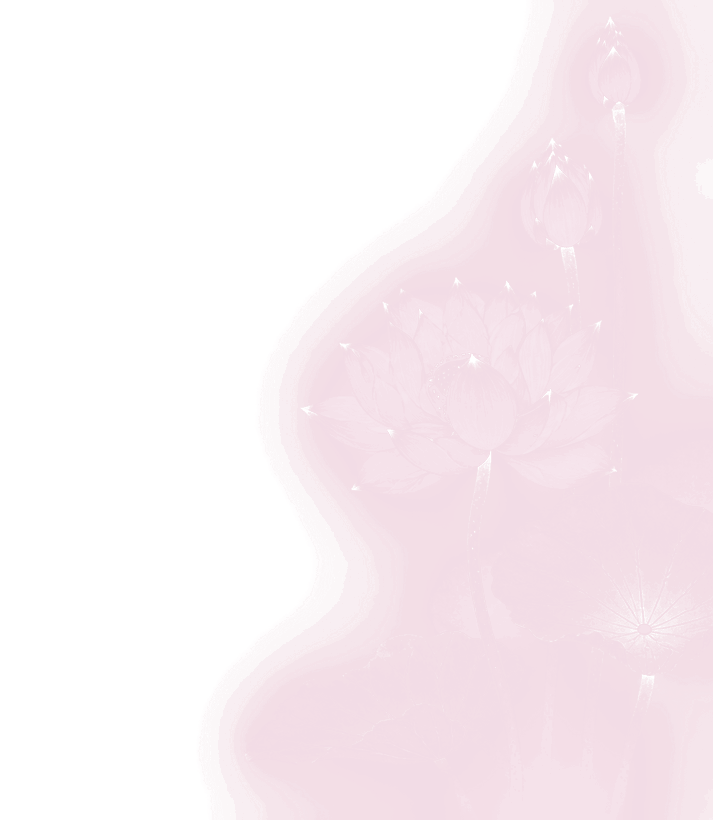
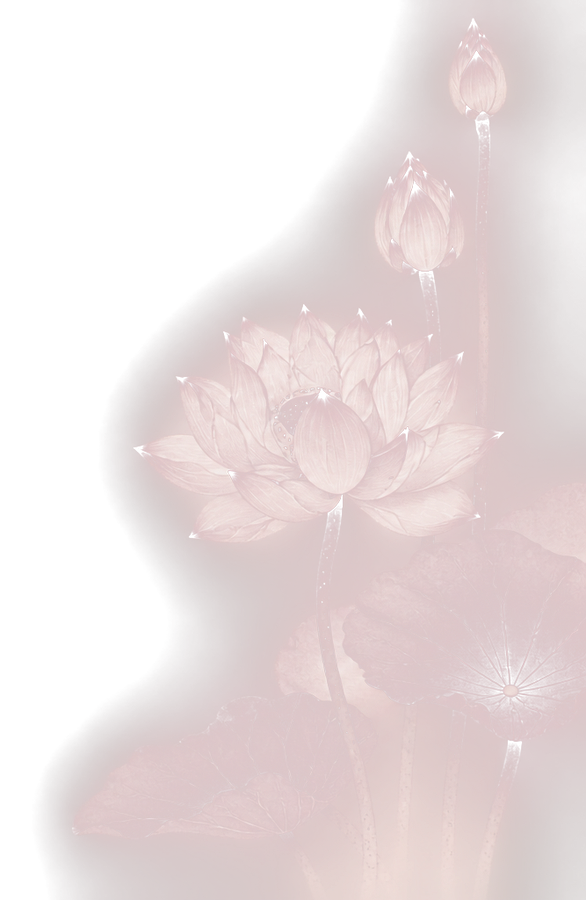
Use the supplied lotus PNG as a plain hero image on the text layer
Colours come straight from bg.png; only the alpha is derived (from luminance)
so the black ground drops out, and the art is cropped to its own bounding box.
Sits on the same layer as the type at the right edge, feathered on the left.

Claude-Session: https://claude.ai/code/session_01KXrQyaVsqQjPcYa1yLp9yh

diff --git a/index.html b/index.html
@@ -391,19 +391,13 @@ p,li,q,blockquote,figcaption,address{text-wrap:pretty}
     radial-gradient(70% 50% at 46% 96%, rgba(105,189,69,.06) 0%, transparent 62%);
   will-change:transform;
 }
-/* the lotus bleeding in from the right edge, behind the headline */
+/* the lotus: a plain image, on the same layer as the type */
 .hero-lotus{
-  position:absolute; inset:0 0 0 auto; pointer-events:none;
-  width:min(50%,660px);
-  background-image:image-set(url("assets/brand/hero-lotus.webp") type("image/webp"),
-                             url("assets/brand/hero-lotus.png") type("image/png"));
-  background-repeat:no-repeat; background-position:right top;
-  background-size:contain;
-  z-index:2;                 /* over the wash and the grain, still under the type */
-  opacity:.95;
-  /* feather the left edge only, so it runs the full height of the hero */
-  -webkit-mask-image:linear-gradient(90deg, transparent 0%, #000 48%);
-  mask-image:linear-gradient(90deg, transparent 0%, #000 48%);
+  position:absolute; right:0; top:0; height:100%; width:auto;
+  z-index:3; pointer-events:none; user-select:none;
+  object-fit:contain; object-position:right top;
+  -webkit-mask-image:linear-gradient(90deg, transparent 0%, #000 34%);
+  mask-image:linear-gradient(90deg, transparent 0%, #000 34%);
 }
 .hero-wash::after{
   content:""; position:absolute; inset:0;
@@ -1130,7 +1124,7 @@ p,li,q,blockquote,figcaption,address{text-wrap:pretty}
      between the headline and the CTAs. */
   .hero{min-height:100svh; padding-top:clamp(92px,15vh,140px); padding-bottom:clamp(26px,4vh,40px)}
   .hero-inner{flex:1; justify-content:center}
-  .hero-lotus{width:min(76%,430px); opacity:.4; background-position:right top}
+  .hero-lotus{opacity:.55}
   .hero h1{margin-top:0; margin-bottom:clamp(26px,5vh,44px)}
   .hero-foot{margin-top:clamp(26px,5vh,44px)}
   .nav-links,.nav > .nav-cta{display:none}
@@ -1399,7 +1393,8 @@ p,li,q,blockquote,figcaption,address{text-wrap:pretty}
 <!-- ============ HERO ============ -->
 <section class="hero wrap" aria-labelledby="hero-h">
   <div class="hero-wash" id="heroWash" aria-hidden="true"></div>
-  <div class="hero-lotus" aria-hidden="true"></div>
+  <img class="hero-lotus" src="assets/brand/hero-lotus.png" alt="" aria-hidden="true"
+       width="586" height="900" decoding="async" fetchpriority="low">
   <div class="hero-inner">
 
     <h1 id="hero-h">
